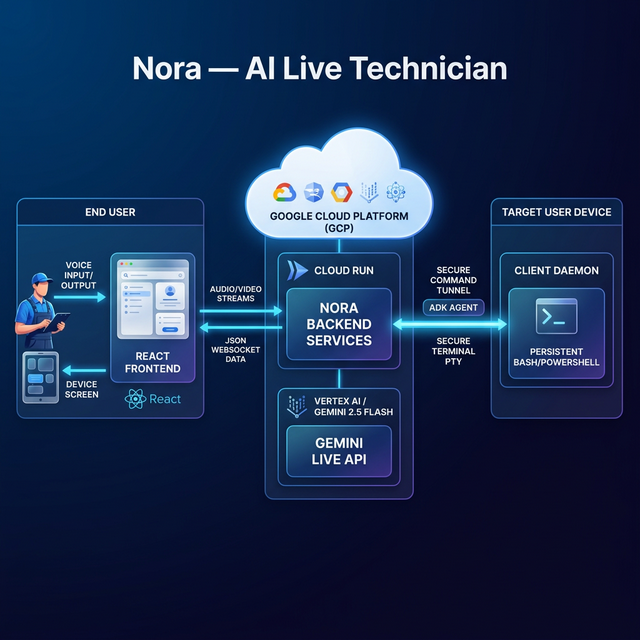
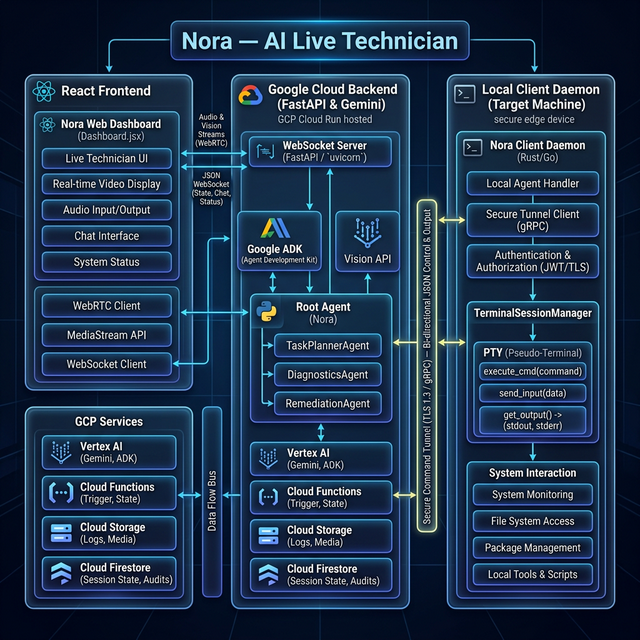
Update architecture diagram to high-fidelity detailed version and refine production strategy phrasing

diff --git a/README.md b/README.md
@@ -136,7 +136,7 @@ While this specific application is designed to run locally to allow the AI acces
 
 **How it uses Google Cloud:**
 - **Google ADK & Vertex AI/Gemini API:** The core intelligence and multimodal live streaming are powered completely by Google's cloud infrastructure via the Gemini Live API endpoint.
-- **Production Deployment Strategy:** In a production scenario, the FastAPI backend acts as a signaling server and can be deployed via **Google Cloud Run** using a Dockerfile. The local CLI tools would be packaged into a lightweight, downloadable client daemon (e.g., using PyInstaller) that connects via WebSocket to the Cloud Run backend, maintaining strict security and isolation.
+- **Production Deployment Strategy:** In a production scenario, the FastAPI backend acts as a signaling server and is deployed via **Google Cloud Run** using a Dockerfile. The local CLI tools are packaged into a lightweight, downloadable client daemon (e.g., using PyInstaller) that connects via WebSocket to the Cloud Run backend, maintaining strict security and isolation.
 
 ---
 
